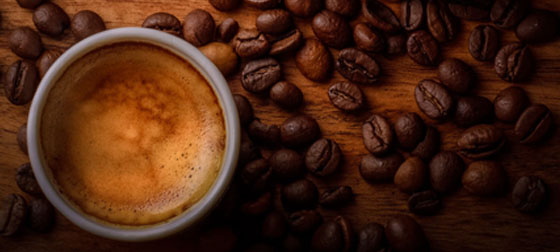
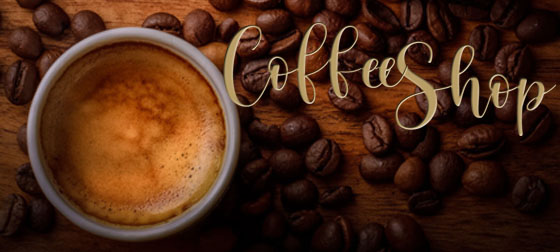
up dated background image

Changed region(s): [[0.3946, 0.0833, 1.0, 0.5556], [0.4554, 0.1667, 0.4857, 0.1944]]

diff --git a/index.html b/index.html
@@ -8,10 +8,19 @@
     <!-- Bootstrap CSS -->
     <link rel="stylesheet" href="https://maxcdn.bootstrapcdn.com/bootstrap/4.0.0/css/bootstrap.min.css" integrity="sha384-Gn5384xqQ1aoWXA+058RXPxPg6fy4IWvTNh0E263XmFcJlSAwiGgFAW/dAiS6JXm" crossorigin="anonymous">
     <link rel="stylesheet" href="css/style.css">
-    <title>Hello, world!</title>
+    <title>My First Website</title>
+    <style>
+body {
+  background-image: url('Ftest.jpg');
+  background-repeat: no-repeat;
+  background-attachment: fixed;
+  background-size: cover;
+}
+</style>
   </head>
   <body>
-    <nav class="navbar navbar-expand-md">
+    <nav class="navbar navbar-expand-md navbar-dark" style="background: linear-gradient(to top, #513726 50%, #b89d66 100%);
+">
       <!-- Brand -->
       <a class="navbar-brand" href="#">Home</a>
 
@@ -24,7 +33,7 @@
       <div class="collapse navbar-collapse" id="collapsibleNavbar">
         <ul class="navbar-nav">
           <li class="nav-item">
-            <a class="nav-link" href="#">Menu</a>
+            <a class="nav-link" href="menu.html">Menu</a>
           </li>
           <li class="nav-item">
             <a class="nav-link" href="#">About us</a>
@@ -42,23 +51,34 @@
     <div class="jumbotron" id="bground">
     </div>
 
-
-    <div class="container-fluid">
+    <div class="container-fluid my-3 bg-dark text-white">
         <div class="row">
-             <div class="col-md-12" id="Welcome">
-          <h1>Welcome to the Coffee Shop</h1>
-          <h2>Want to have a good time and to drink some coffee?</h2>
-          <p>Come to our cafe: Our Cafe was created by the owners of Mobirise eCommerce
-            Website Builder to bring endeavor ready clients, locals, and travelers a truly
-            unique coffee experience. You will enjoy our cafe if you love...</p>
-             </div>
+           <div class="col-md-12" id="Welcome">
+            <h1>Welcome to the Coffee Shop</h1>
+          </div>
         </div>
+   </div>
 
-      <div class="row">
-         <div class="col-md-6">
+<div class="container">
+   <center>
+     <div class="container">
+       <div class="row">
+          <div class="col-md-12">
+           <h2>Want to have a good time and to drink some coffee?</h2>
+           <p>Come to our cafe: Our Cafe was created by the owners of Mobirise eCommerce
+           Website Builder to bring endeavor ready clients, locals, and travelers a truly
+           unique coffee experience. You will enjoy our cafe if you love...</p>
+         </div>
+       </div>
+     </div>
+   </center>
+
+
+        <div class="row">
+          <div class="col-md-6">
            <h2>Homely Atmosphere</h2>
-         <p>As a missional Cafe focused on lasting options to poverty, we turn profits in to hope.
-           We do this by creating product you love, serving you with a smile, as well as offering
+           <p>As a missional Cafe focused on lasting options to poverty, we turn profits in to hope.
+          We do this by creating product you love, serving you with a smile, as well as offering
            all of our profits to individuals in need.</p>
            <h2>Excellent Service</h2>
          <p>Our preferred, straightforward and also unique method of developing cool coffee at our cafe.
@@ -67,17 +87,20 @@
          </div>
 
          <div class="col-md-6">
-           <h2>Homely Atmosphere</h2>
-         <p>As a missional Cafe focused on lasting options to poverty, we turn profits in to hope.
-           We do this by creating product you love, serving you with a smile, as well as offering
-           all of our profits to individuals in need.</p>
-           <h2>Excellent Service</h2>
-         <p>Our preferred, straightforward and also unique method of developing cool coffee at our cafe.
-            The flash-chill procedure enables us to harness each coffee's natural attributes with a
-            hot-water brew, and afterwards lock them in place with an instant decrease in temperature level.</p>
+           <h2>Tasty Coffee</h2>
+           <p>Most of all, we are committed to giving you the best customer service as well as a comfortable
+              environment to sit with good friends, research study and work.</p>
+           <h2>Fast Cook</h2>
+           <p>Our preferred, straightforward and also unique method of developing cool coffee..</p>
+           <h2>Free Delivery</h2>
+           <p>We are the Cafe with a bold vision to make a distinction in both our neighborhood and also
+              worldwide neighborhoods.</p>
          </div>
       </div>
-    </div>
+      </div>
+      <div class="jumbotron" id="botton">
+     </div>
+
 
     <!-- Optional JavaScript -->
     <!-- jQuery first, then Popper.js, then Bootstrap JS -->

diff --git a/css/style.css b/css/style.css
@@ -1,19 +1,31 @@
 #bground {
   background-image: url("Fhome.jpg");
   background-size: cover;
-  height: 400px;
+  height: 500px;
 }
 
 h1 {
-  color: #b89d66;
+  color: #b89d66;s
   text-align: center;
   font-family: 'Cherry Swash', cursive;
+  text-shadow: 2px 2px 8px #000000
+}
+
+h2 {
+  color: #513726;s
+  text-align: center;
+  font-family: "Cabin"cursive;
+   text-shadow: 3px 3px 4px #777
 }
 
 #Welcome {
   text-align: center;
+  padding: 30px;
+  background: #513726;
 }
 
-.nav-item {
-  color: #b89d66;
+#botton {
+  background-image: url("funfo.jpg");
+  background-size: cover;
+  height: 5px;
 }

diff --git a/menu.html b/menu.html
@@ -1,0 +1,10 @@
+<!DOCTYPE html>
+<html lang="en" dir="ltr">
+  <head>
+    <meta charset="utf-8">
+    <title></title>
+  </head>
+  <body>
+
+  </body>
+</html>
